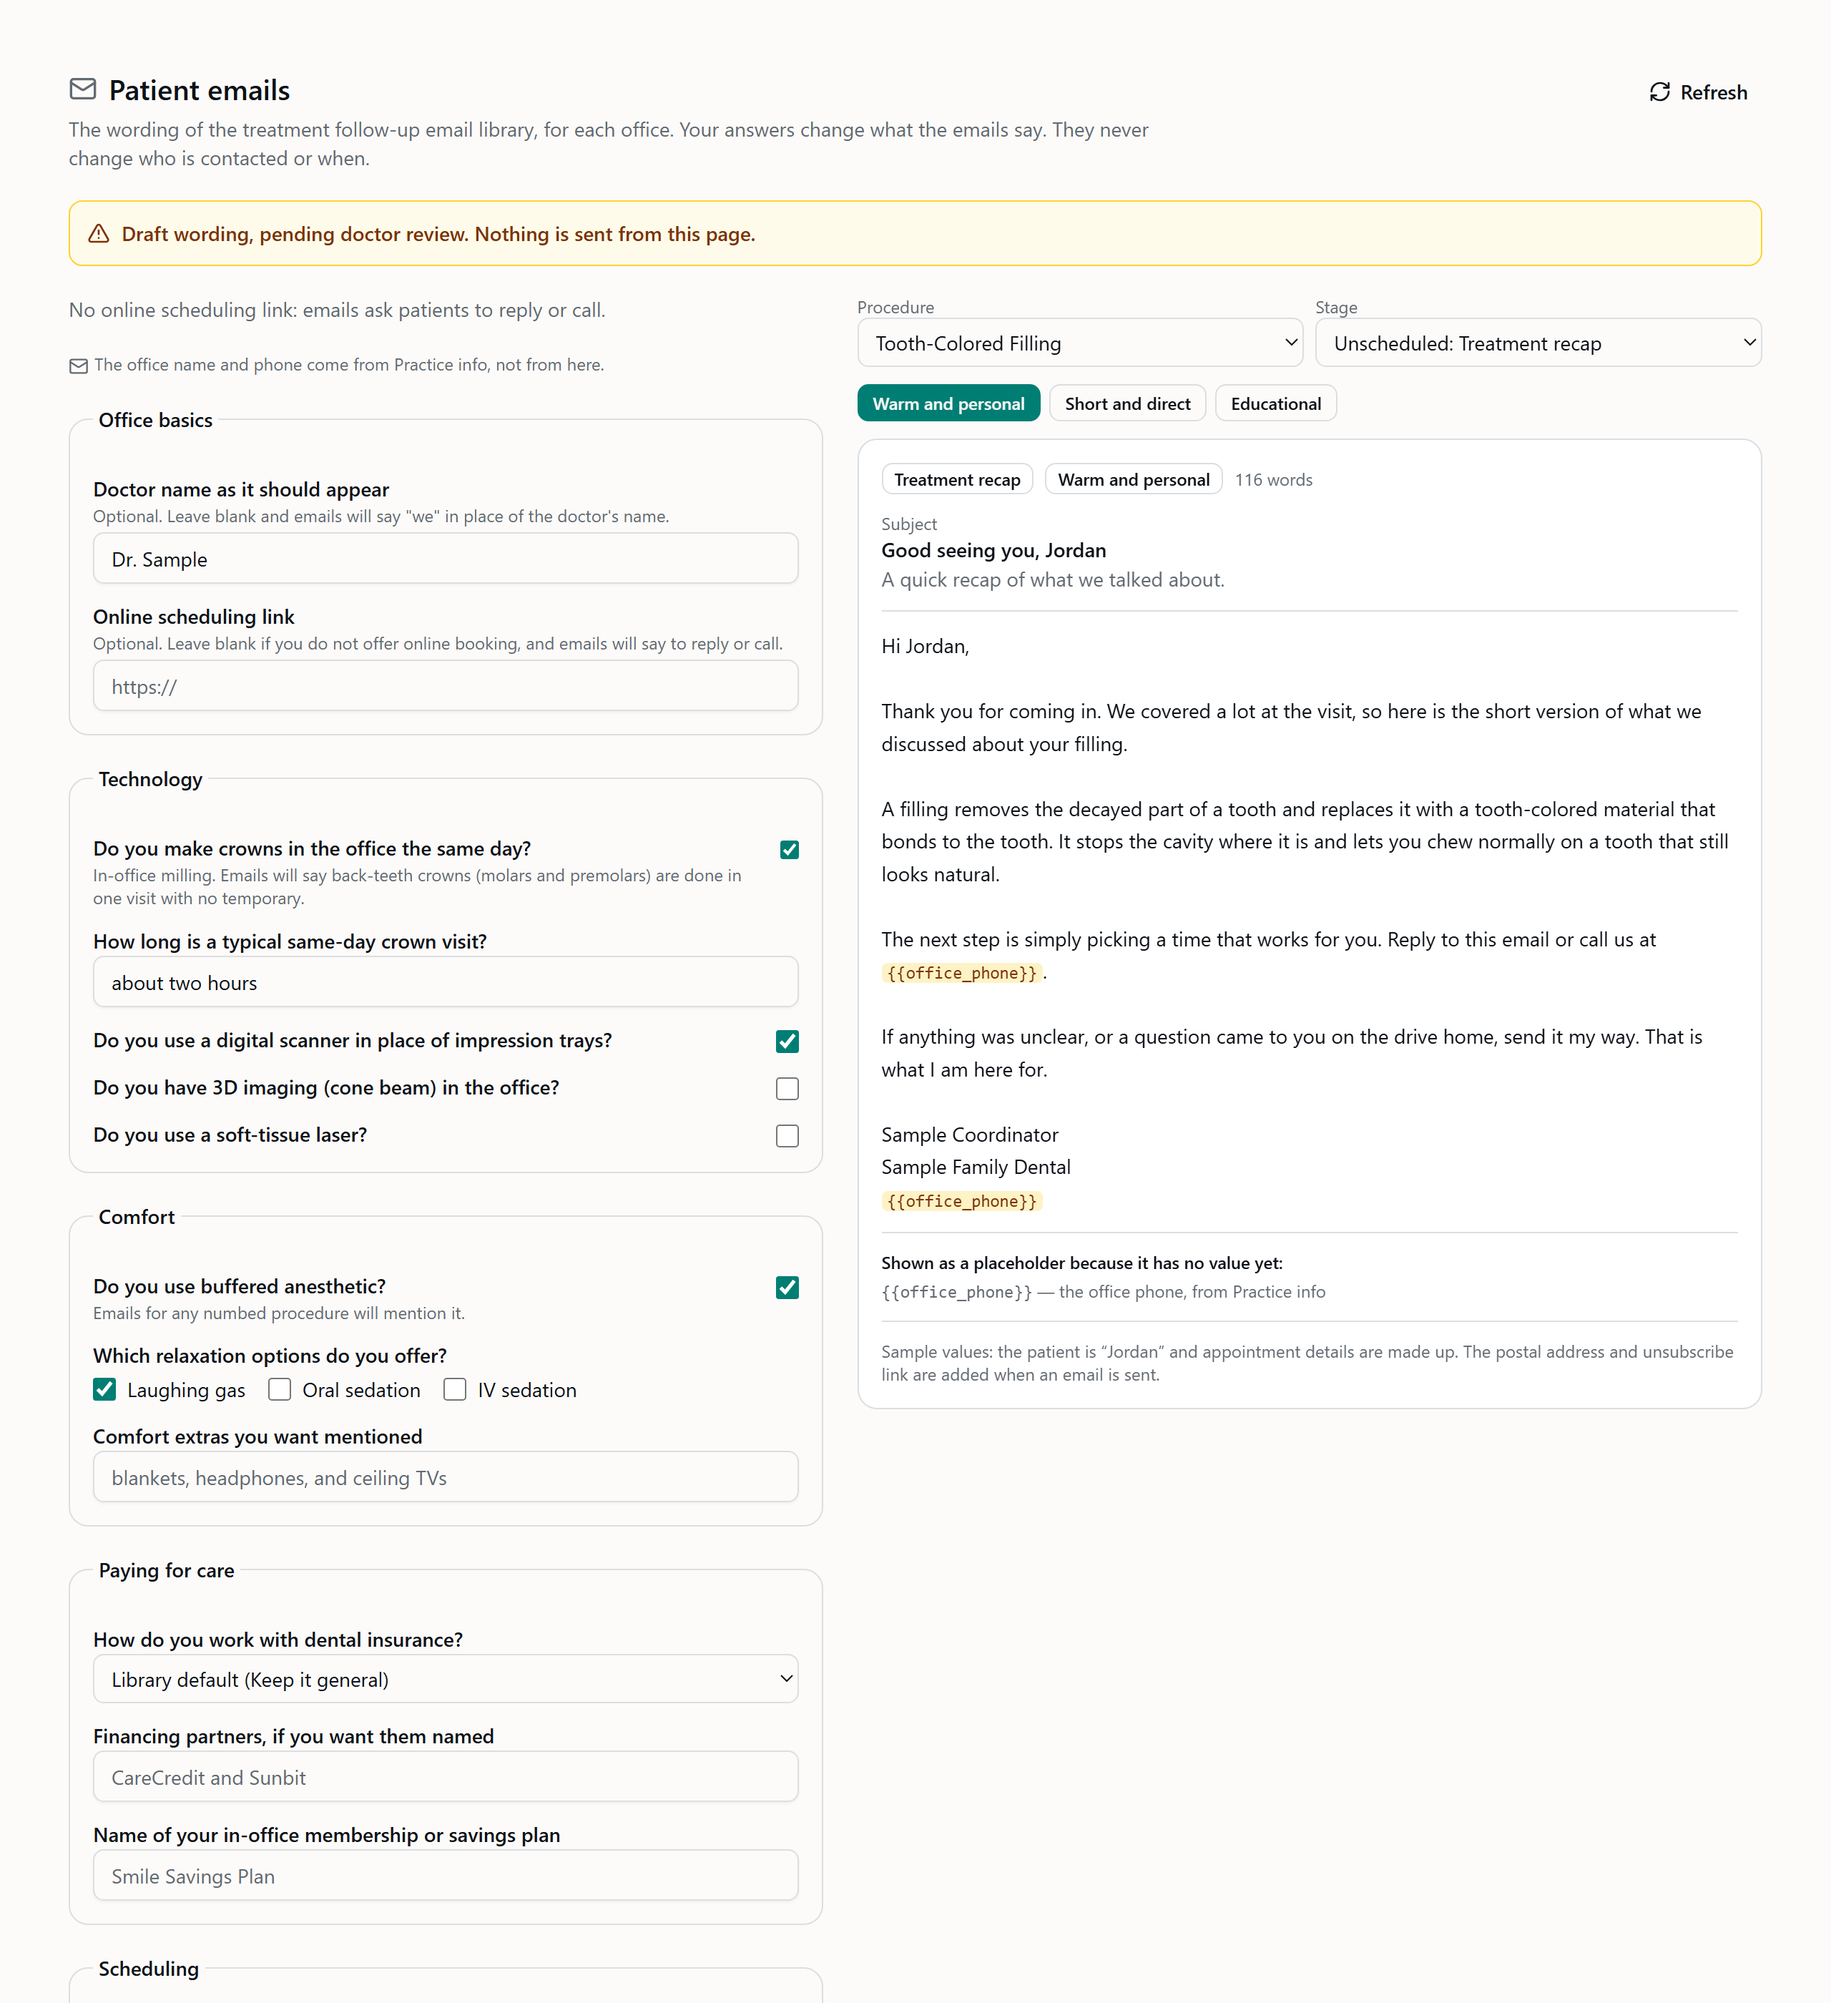
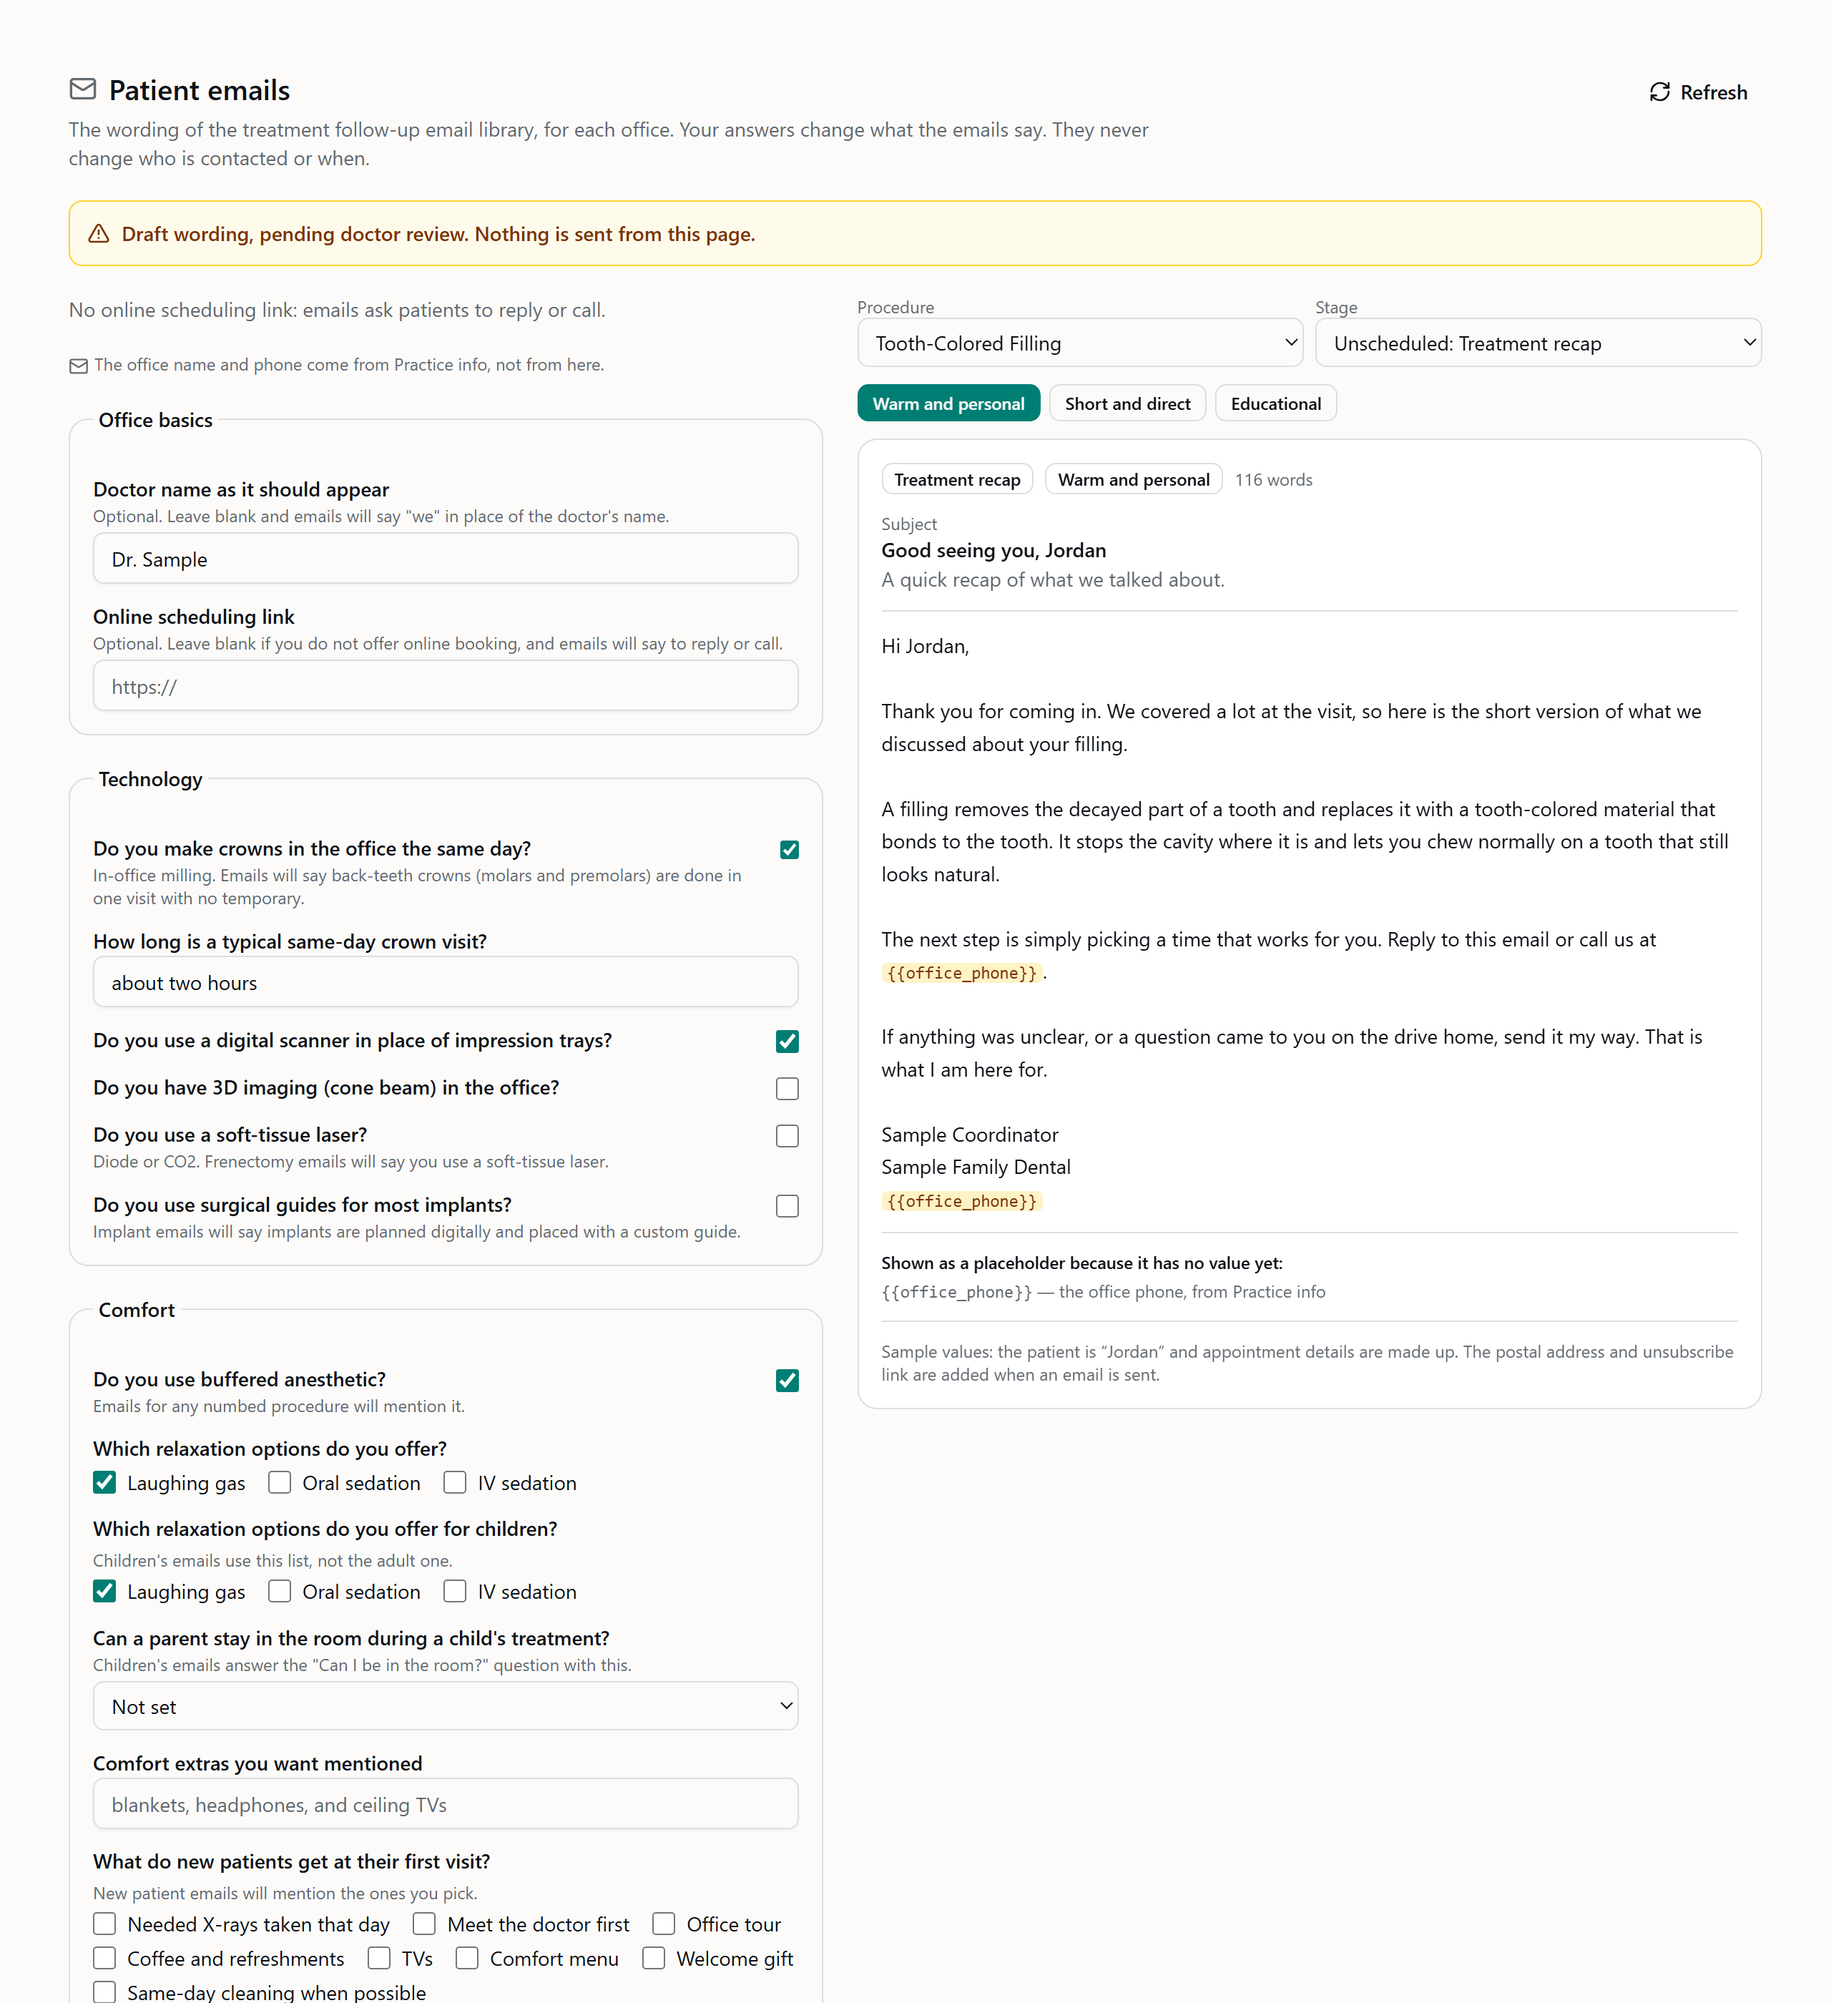
Hide show_if questions the way the composer reads them, and drop their answers
show_if now handles key=value, negation and the library default, so
surgical_guides and immediate_implants show while implant_surgery is
unset (in_house). A hidden question's stale answer is never previewed
or saved. Screenshots refreshed for 1.3.0.

diff --git a/new-dashboard/tests/admin-patient-emails.test.tsx b/new-dashboard/tests/admin-patient-emails.test.tsx
@@ -279,3 +279,142 @@ describe("/admin/patient-emails gating and the hub card", () => {
     expect(visibleHubCards(["admin.all", "tc.full"], ["voice"]).some((c) => c.id === "patient-emails")).toBe(false);
   });
 });
+
+// ── EL-1c: library 1.3.0's six new questions ────────────────────────────────
+
+const V13_QUESTIONS = [
+  q({ id: "laser", section: "Technology", type: "yesno", label: "Do you use a dental laser?", help: "Soft-tissue or hard-tissue laser." }),
+  q({ id: "surgical_guides", section: "Technology", type: "yesno", label: "Do you place implants with surgical guides?", show_if: "implant_surgery=in_house" }),
+  q({
+    id: "sedation_kids",
+    section: "Comfort",
+    type: "multi",
+    label: "Which relaxation options do you offer children?",
+    options: [
+      { value: "nitrous", label: "Laughing gas", phrase: "laughing gas" },
+      { value: "oral", label: "Oral sedation", phrase: "oral sedation" },
+      { value: "iv", label: "IV sedation", phrase: "IV sedation" },
+    ],
+  }),
+  q({
+    id: "parent_in_room",
+    section: "Comfort",
+    type: "select",
+    label: "Can a parent stay in the room?",
+    options: [
+      { value: "yes", label: "Yes" },
+      { value: "child_first", label: "Child first, then parent" },
+      { value: "no", label: "No" },
+    ],
+  }),
+  q({
+    id: "new_patient_welcome",
+    section: "Comfort",
+    type: "multi",
+    label: "What does a new patient's first visit include?",
+    options: [
+      { value: "xrays", label: "X-rays" },
+      { value: "tour", label: "A tour" },
+    ],
+  }),
+  q({
+    id: "implant_surgery",
+    section: "Services",
+    type: "select",
+    label: "Who places implants?",
+    default: "in_house",
+    options: [
+      { value: "in_house", label: "We do" },
+      { value: "specialist", label: "A specialist" },
+    ],
+  }),
+  q({ id: "immediate_implants", section: "Services", type: "yesno", label: "Do you offer same-day implants?", show_if: "implant_surgery=in_house" }),
+  q({
+    id: "sleep_test",
+    section: "Services",
+    type: "select",
+    label: "How do patients get a sleep test?",
+    options: [
+      { value: "home_test", label: "Home sleep test" },
+      { value: "both", label: "Either" },
+      { value: "refer", label: "We refer" },
+    ],
+  }),
+];
+const CATALOG_V13: EmailLibraryCatalogResponse = {
+  ...CATALOG,
+  libraryVersion: "1.3.0",
+  questions: [...CATALOG.questions, ...V13_QUESTIONS],
+};
+
+describe("/admin/patient-emails, library 1.3.0", () => {
+  it("renders the six new questions in their sections with the existing controls", async () => {
+    apiMock.getEmailLibraryCatalog.mockResolvedValue(CATALOG_V13);
+    render(<AdminPatientEmails />);
+    const tech = await screen.findByTestId("patient-emails-section-Technology");
+    const comfort = screen.getByTestId("patient-emails-section-Comfort");
+    const services = screen.getByTestId("patient-emails-section-Services");
+    expect(within(tech).getByTestId("patient-emails-q-surgical_guides").querySelector("input[type=checkbox]")).toBeTruthy();
+    expect(within(comfort).getByTestId("patient-emails-opt-sedation_kids-oral")).toBeTruthy();
+    expect(within(comfort).getByTestId("patient-emails-opt-new_patient_welcome-tour")).toBeTruthy();
+    expect(within(comfort).getByTestId("patient-emails-q-parent_in_room").querySelector("select")).toBeTruthy();
+    expect(within(services).getByTestId("patient-emails-q-immediate_implants").querySelector("input[type=checkbox]")).toBeTruthy();
+    expect(within(services).getByTestId("patient-emails-q-sleep_test").querySelector("select")).toBeTruthy();
+    expect(within(tech).getByTestId("patient-emails-q-laser").textContent).toContain("Soft-tissue or hard-tissue laser.");
+  });
+
+  it("show_if `implant_surgery=in_house` reads the library default, and hiding drops the stale answer from preview and save", async () => {
+    apiMock.getEmailLibraryCatalog.mockResolvedValue(CATALOG_V13);
+    apiMock.getEmailLibraryProfile.mockResolvedValue(
+      profile({ saved: true, answers: { surgical_guides: true, immediate_implants: true }, libraryVersion: "1.3.0" }),
+    );
+    render(<AdminPatientEmails />);
+    // Unanswered implant_surgery reads as its default (in_house): both follow-ups show.
+    expect(await screen.findByTestId("patient-emails-q-surgical_guides")).toBeTruthy();
+    expect(screen.getByTestId("patient-emails-q-immediate_implants")).toBeTruthy();
+
+    fireEvent.change(screen.getByLabelText("Who places implants?"), { target: { value: "specialist" } });
+    expect(screen.queryByTestId("patient-emails-q-surgical_guides")).toBeNull();
+    expect(screen.queryByTestId("patient-emails-q-immediate_implants")).toBeNull();
+
+    await waitFor(
+      () =>
+        expect(apiMock.previewEmailLibrary).toHaveBeenLastCalledWith("roland", {
+          procedure_id: "crown",
+          stage: "tp_recap",
+          variant: "A",
+          answers: { implant_surgery: "specialist" },
+        }),
+      { timeout: 2000 },
+    );
+    apiMock.saveEmailLibraryProfile.mockResolvedValue(
+      profile({ saved: true, answers: { implant_surgery: "specialist" }, updatedAt: "2026-11-23T15:00:00.000Z", updatedBy: "admin@example.test" }),
+    );
+    fireEvent.click(screen.getByTestId("patient-emails-save"));
+    expect(apiMock.saveEmailLibraryProfile).toHaveBeenCalledWith("roland", { implant_surgery: "specialist" });
+    expect(await screen.findByTestId("patient-emails-saved")).toBeTruthy();
+
+    // Back to in_house: the follow-ups return, unanswered.
+    fireEvent.change(screen.getByLabelText("Who places implants?"), { target: { value: "in_house" } });
+    const guides = within(screen.getByTestId("patient-emails-q-surgical_guides")).getByRole("checkbox") as HTMLInputElement;
+    expect(guides.checked).toBe(false);
+  });
+
+  it("the new selects and multis send declared values", async () => {
+    apiMock.getEmailLibraryCatalog.mockResolvedValue(CATALOG_V13);
+    render(<AdminPatientEmails />);
+    fireEvent.change(await screen.findByLabelText("Can a parent stay in the room?"), { target: { value: "child_first" } });
+    fireEvent.change(screen.getByLabelText("How do patients get a sleep test?"), { target: { value: "home_test" } });
+    fireEvent.click(screen.getByTestId("patient-emails-opt-sedation_kids-nitrous"));
+    fireEvent.click(screen.getByTestId("patient-emails-opt-new_patient_welcome-tour"));
+    fireEvent.click(screen.getByTestId("patient-emails-opt-new_patient_welcome-xrays"));
+    apiMock.saveEmailLibraryProfile.mockResolvedValue(profile({ saved: true }));
+    fireEvent.click(screen.getByTestId("patient-emails-save"));
+    expect(apiMock.saveEmailLibraryProfile).toHaveBeenCalledWith("roland", {
+      parent_in_room: "child_first",
+      sleep_test: "home_test",
+      sedation_kids: ["nitrous"],
+      new_patient_welcome: ["xrays", "tour"],
+    });
+  });
+});

diff --git a/new-dashboard/client/src/pages/AdminPatientEmails.tsx b/new-dashboard/client/src/pages/AdminPatientEmails.tsx
@@ -96,10 +96,43 @@ function sortKeys(v: unknown): unknown {
   return v;
 }
 
-/** Is a question shown, given its show_if and the draft? (show_if names a yes/no answer.) */
-function shown(q: EmailLibraryQuestion, draft: Draft): boolean {
-  if (!q.show_if) return true;
-  return draft[q.show_if] === true;
+/**
+ * Is a question shown, given its show_if and the draft? The same reading the
+ * composer gives a condition (compose.js `test`): `key` is "answered" (true, a
+ * non-empty list, or text other than "no"), `key=value` compares the answer, a
+ * leading `!` negates, and an unanswered question reads as its library default
+ * (so `implant_surgery=in_house` is true until the office picks "specialist").
+ */
+function shown(q: EmailLibraryQuestion, draft: Draft, questions: readonly EmailLibraryQuestion[]): boolean {
+  const cond = q.show_if;
+  if (!cond) return true;
+  const neg = cond.startsWith("!");
+  const [key, want] = (neg ? cond.slice(1) : cond).split("=");
+  let v: unknown = draft[key];
+  if (v === undefined || v === null || v === "") {
+    const src = questions.find((x) => x.id === key);
+    v = src && src.default != null ? src.default : src && (src.type === "multi" || src.type === "procedures") ? [] : "";
+  }
+  let ok: boolean;
+  if (want !== undefined) ok = v === want;
+  else if (Array.isArray(v)) ok = v.length > 0;
+  else ok = v === true || (typeof v === "string" && v.trim() !== "" && v !== "no");
+  return neg ? !ok : ok;
+}
+
+/**
+ * The draft minus the answers of every question its show_if currently hides, so
+ * a hidden question's stale answer is never previewed or saved (the server would
+ * accept it: it is a valid key). Repeats until stable in case a hidden answer is
+ * itself another question's condition.
+ */
+function visibleAnswers(draft: Draft, questions: readonly EmailLibraryQuestion[]): Draft {
+  let out: Draft = draft;
+  for (;;) {
+    const hidden: string[] = questions.filter((q) => q.id in out && !shown(q, out, questions)).map((q) => q.id);
+    if (hidden.length === 0) return out;
+    out = Object.fromEntries(Object.entries(out).filter(([k]) => !hidden.includes(k)));
+  }
 }
 
 /** Text with {{tokens}} highlighted. */
@@ -287,7 +320,12 @@ function OfficeEmailLibrary({ office }: { office: OfficeId }) {
     void load();
   }, [load]);
 
-  const validation = useMemo(() => validateEmailLibraryAnswers(draft), [draft]);
+  // Validate (and so preview and save) only what is on screen: a question its
+  // show_if hides contributes nothing, whatever the draft still holds for it.
+  const validation = useMemo(
+    () => validateEmailLibraryAnswers(catalog ? visibleAnswers(draft, catalog.questions) : draft),
+    [draft, catalog],
+  );
   // Compare normalized to normalized, so list order alone never reads as an edit.
   const savedNormalized = useMemo(() => {
     if (!profile) return null;
@@ -425,7 +463,7 @@ function OfficeEmailLibrary({ office }: { office: OfficeId }) {
           <fieldset key={s.name} className="space-y-3 rounded-xl border border-border p-4" data-testid={`patient-emails-section-${s.name}`}>
             <legend className="px-1 text-sm font-semibold text-foreground">{s.name}</legend>
             {s.questions
-              .filter((q) => shown(q, draft))
+              .filter((q) => shown(q, draft, catalog.questions))
               .map((q) => (
                 <QuestionField
                   key={q.id}

diff --git a/new-dashboard/tests/tc-email-library-shots.test.tsx b/new-dashboard/tests/tc-email-library-shots.test.tsx
@@ -59,6 +59,8 @@ const ANSWERS = {
   digital_scanner: true,
   buffered: true,
   sedation: ["nitrous"],
+  sedation_kids: ["nitrous"],
+  parent_in_room: "child_first",
   doctor_name: "Dr. Sample",
   insurance_mode: "in_network",
   schedule_perks: ["early", "friday"],
@@ -78,7 +80,7 @@ vi.mock("@/features/tc/emailLibrary/emailLibraryApi", () => ({
     office: "roland",
     saved: true,
     answers: ANSWERS,
-    libraryVersion: "1.2.0",
+    libraryVersion: "1.3.0",
     updatedBy: "admin@example.test",
     updatedAt: "2026-11-19T15:00:00.000Z",
     missing: library!.missingSettings(ANSWERS),
